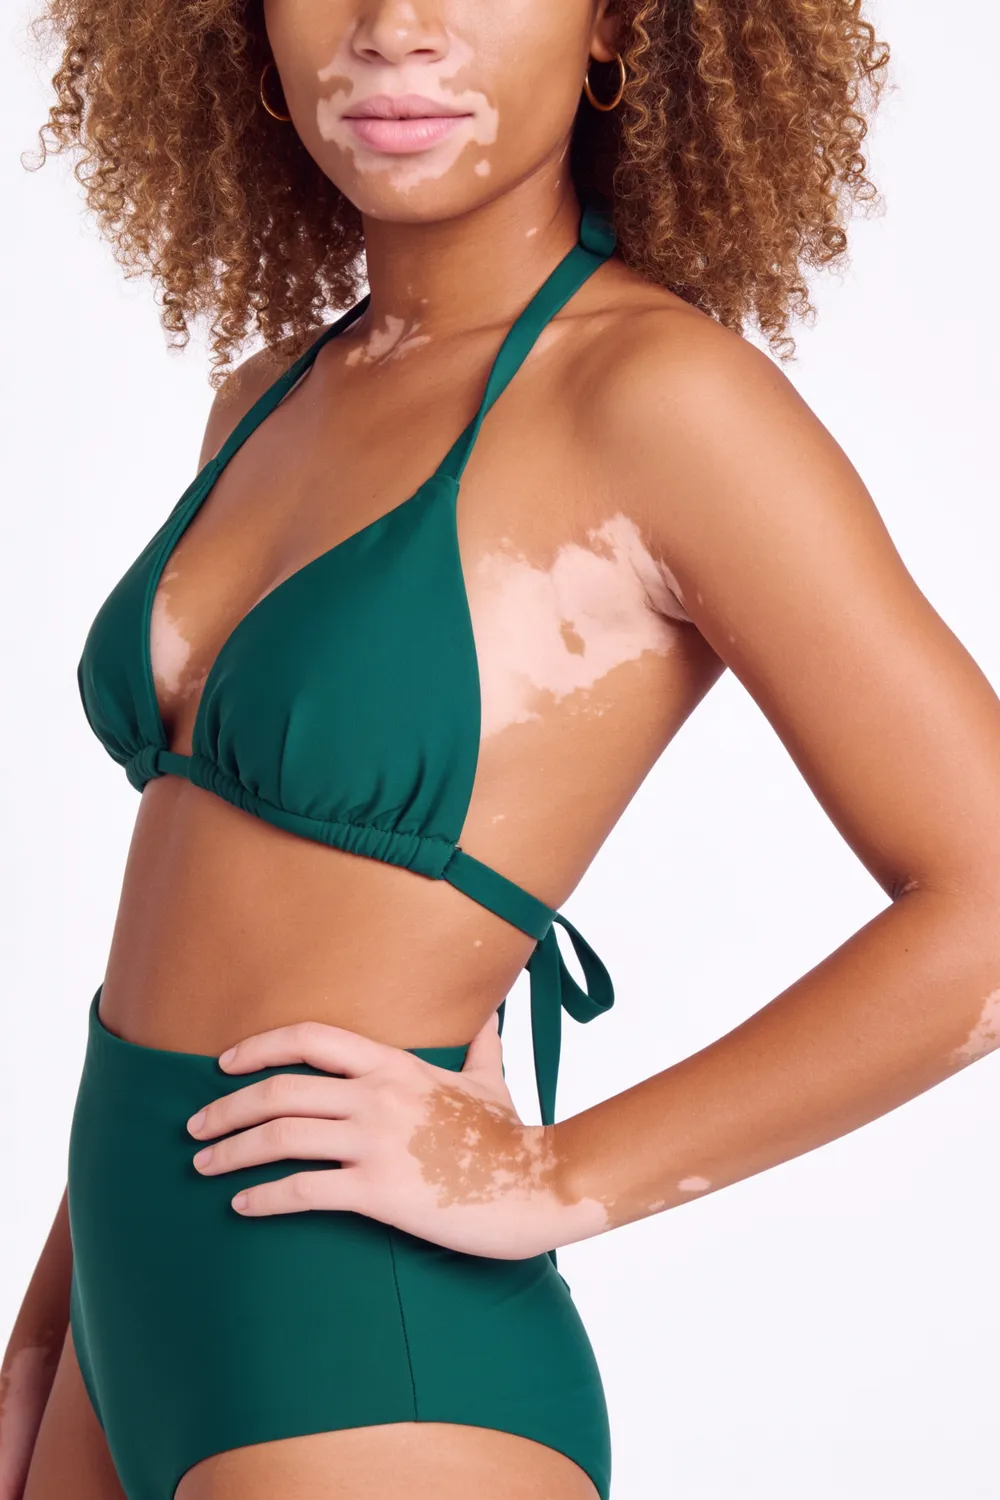
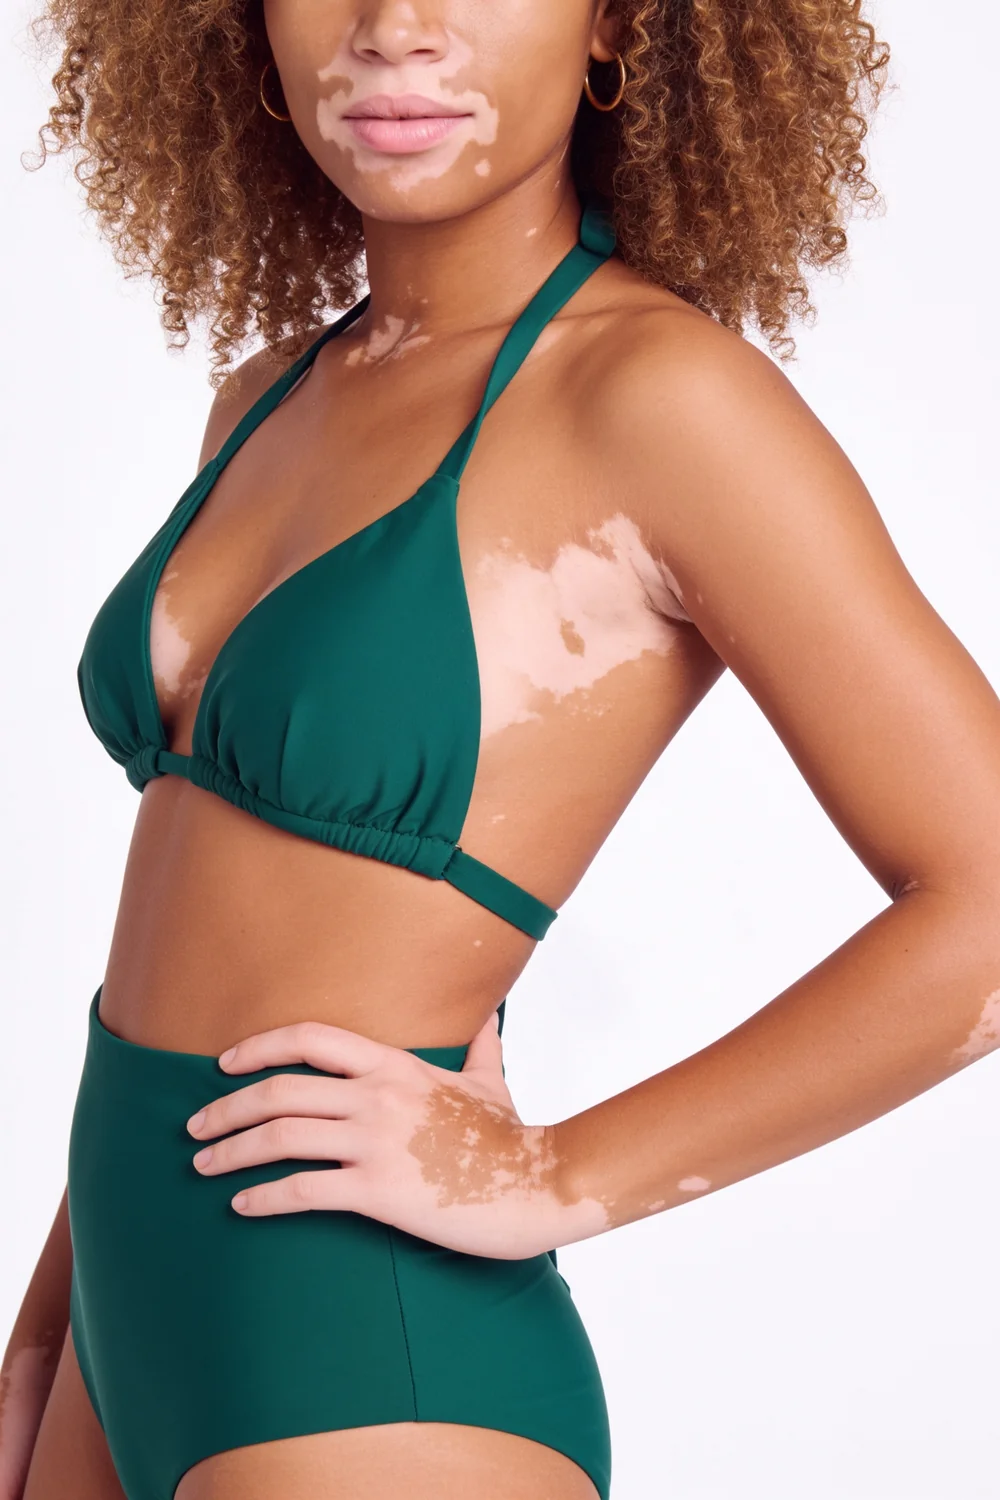
Fiche Maya : une seule bande au dos (dos, profil, detail) comme le maillot

Changed region(s): [[0.527, 0.6133, 0.62, 0.7667]]

diff --git a/fr/index.html b/fr/index.html
@@ -366,7 +366,7 @@ section[id]{scroll-margin-top:68px}
 </footer>
 
 <script>
-const ASSET_V="202610011018";
+const ASSET_V="202610011047";
 const BOOKS={
  sofia:{name:"Sofia",imgs:["sofia-portrait","sofia-1","sofia-bijoux-cou","sofia-2","sofia-3","sofia-bijoux-mains","sofia-4","sofia-bijoux-montre","sofia-5","sofia-bijoux-oreille","sofia-maldives","sofia-heliport"],video:"../video/sofia-monaco.mp4"},
  elin:{name:"Elin",imgs:["elin-portrait","elin-1","elin-bijoux-cou","elin-2","elin-3","elin-bijoux-mains","elin-4","elin-bijoux-montre","elin-5","elin-bijoux-oreille","elin-ny","elin-alpes"],video:"../video/elin-monaco.mp4"},

diff --git a/index.html b/index.html
@@ -364,7 +364,7 @@ section[id]{scroll-margin-top:68px}
 </footer>
 
 <script>
-const ASSET_V="202610011018";
+const ASSET_V="202610011047";
 const BOOKS={
  sofia:{name:"Sofia",imgs:["sofia-portrait","sofia-1","sofia-bijoux-cou","sofia-2","sofia-3","sofia-bijoux-mains","sofia-4","sofia-bijoux-montre","sofia-5","sofia-bijoux-oreille","sofia-maldives","sofia-heliport"],video:"video/sofia-monaco.mp4"},
  elin:{name:"Elin",imgs:["elin-portrait","elin-1","elin-bijoux-cou","elin-2","elin-3","elin-bijoux-mains","elin-4","elin-bijoux-montre","elin-5","elin-bijoux-oreille","elin-ny","elin-alpes"],video:"video/elin-monaco.mp4"},
